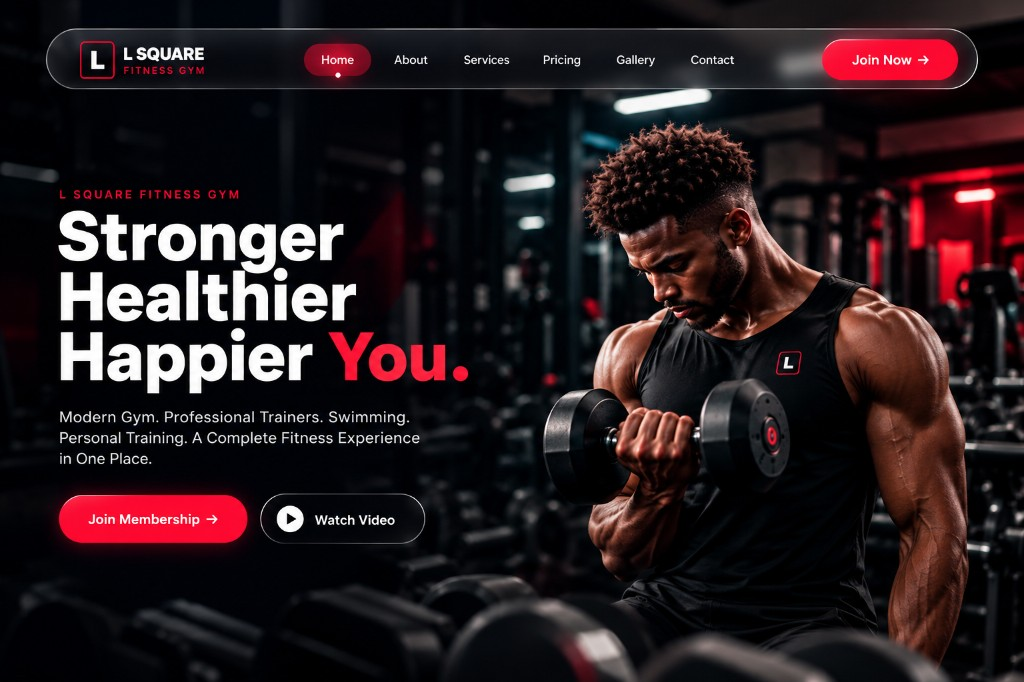
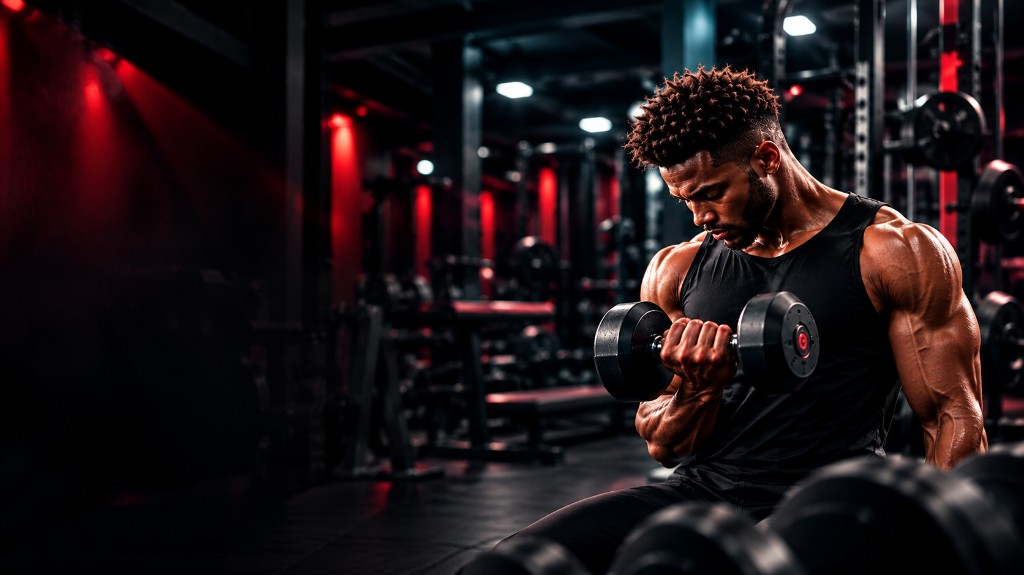
set provided image as hero background

diff --git a/app/page.tsx b/app/page.tsx
@@ -6,7 +6,8 @@ export default function HomePage() {
     <>
       {/* Hero */}
       <section aria-label="Hero" style={{position:'relative',minHeight:'100vh',display:'flex',alignItems:'center',background:'#0d0d0e',overflow:'hidden'}}>
-        {/* Background removed */}
+        <img src="/hero-athlete.jpg" alt="Athlete" loading="eager" style={{position:'absolute',top:0,right:0,width:'62%',height:'100%',objectFit:'cover',objectPosition:'center 20%',opacity:0.92,zIndex:1}} />
+        <div style={{position:'absolute',top:0,left:0,width:'100%',height:'100%',background:'linear-gradient(90deg,#0d0d0e 0%,rgba(13,13,14,0.75) 45%,rgba(13,13,14,0.35) 100%)',zIndex:2,pointerEvents:'none'}} />
         <div style={{position:'relative',zIndex:10,maxWidth:1200,margin:'auto',padding:'160px 30px 120px',width:'100%',display:'grid',gridTemplateColumns:'1fr 1fr',gap:70,alignItems:'center'}}>
           <div>
             <p style={{fontSize:12,textTransform:'uppercase',letterSpacing:'.25em',fontWeight:900,color:'#ed253b',marginBottom:24}}>L Square Fitness Gym</p>
